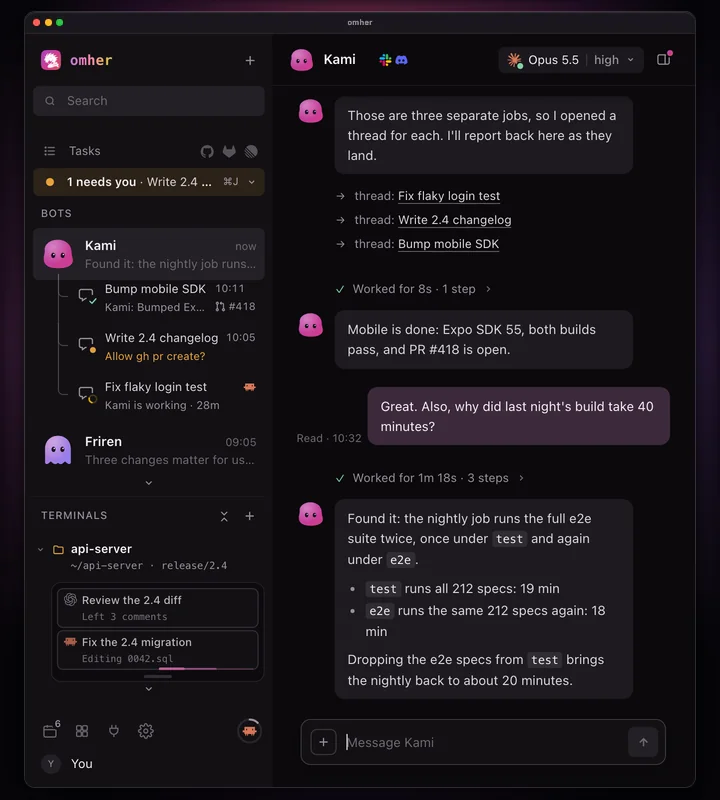
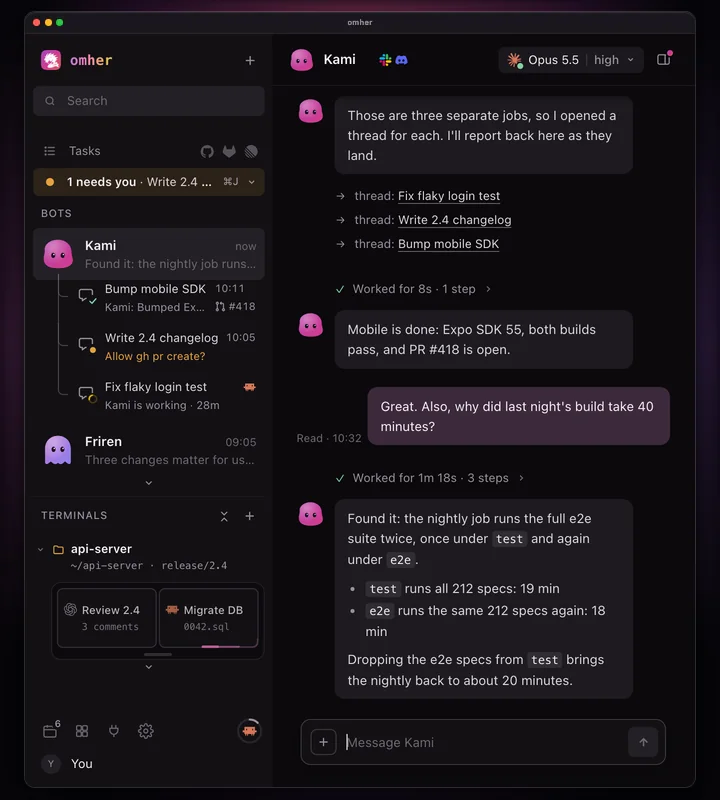
docs(site): omher.app poster and phone crop with the split side by side
The site poster (omher-app.webp, 2400x1239) and its phone crop
(omher-app-mobile.webp, 720x800) still showed the api-server split card
stacked top/bottom ("Review the 2.4 diff" over "Fix the 2.4 migration").
khope wants the split side by side everywhere, as the README hero already
has it. Both stills are retaken from the poster's own scene (the #3197
spec) with the README hero's split ported in: the split is dragged to the
right, and the panes are titled Codex "Review 2.4" / "3 comments" and Claude
Code "Migrate DB" / "0042.sql" (the live feed prints "0042.sql"), with no
ellipsis in either cell.

Both are drawn with omher's GPU terminal renderer forced on through
openApp (term.gpu "on"; rendererInUse() reads "gpu"), as the terminals poster
in #3201 is, so no capture falls back to the DOM renderer's seamed block
glyphs. Neither still shows an open terminal, and a 10x zoom of the Claude
Code marks in the sidebar shows them solid.

Everything else is unchanged: same capture (1454x854 CSS at DPR 1.24966 for
the poster, 670x753 at 2x for the phone, turn answered), same composite
into each file's own backdrop, border and title bar, same canvas and
window box, so site/index.html's --win-* crops still fit. A Pillow diff
against main changes only the TERMINALS band (sidebar rows ~800-1060 on
the poster, ~560-700 on the phone); every other band is within webp noise.

The side-by-side card is 62 CSS px at the default grip, against 52 for the
[…]

Changed region(s): [[0.0917, 0.7188, 0.3667, 0.8438]]

diff --git a/site/index.html b/site/index.html
@@ -752,7 +752,7 @@ body.rail-off .rail{opacity:0;pointer-events:none;visibility:hidden}
   </div>
   <!-- the window slot: the promo still today; a video element with a poster drops in here (set --win-l/t/w/h to 0 0 1 1 and --win-ar to the clip's ratio) -->
   <div class="omher__stage" data-omher-stage>
-  <figure class="omher__shot" data-app-shot><div class="omher__win" data-app-win data-app-slot><video data-app-film autoplay muted loop playsinline preload="metadata" poster="assets/omher-app.webp" width="2400" height="1240" aria-label="omher: you ask Kami for three release-day jobs and it opens a thread for each on its own; the threads run, one finishes, one waits for your approval, a Shell in TERMINALS turns into Claude Code while claude runs and back, and Kami answers a follow-up with its steps timed."><source src="assets/omher-app.webm" type="video/webm"><source src="assets/omher-app.mp4" type="video/mp4"></video><picture><source media="(max-width: 600px)" srcset="assets/omher-app-mobile.webp" width="720" height="800"><img src="assets/omher-app.webp" alt="omher: Kami split a release-day ask into three threads under its name, one running with Claude Code at work, one waiting for you, one done; TERMINALS below show named folders with their path and branch: a Codex and Claude Code split in api-server and an OMH session running a /dag-ulw plan in oh-my-hermes, each with its CLI's logo, and Tasks sits on top." width="2400" height="1239" fetchpriority="high" decoding="async"></picture><span class="omher__sheen" aria-hidden="true"></span><span class="omher__glow" aria-hidden="true"></span></div></figure>
+  <figure class="omher__shot" data-app-shot><div class="omher__win" data-app-win data-app-slot><video data-app-film autoplay muted loop playsinline preload="metadata" poster="assets/omher-app.webp" width="2400" height="1240" aria-label="omher: you ask Kami for three release-day jobs and it opens a thread for each on its own; the threads run, one finishes, one waits for your approval, a Shell in TERMINALS turns into Claude Code while claude runs and back, and Kami answers a follow-up with its steps timed."><source src="assets/omher-app.webm" type="video/webm"><source src="assets/omher-app.mp4" type="video/mp4"></video><picture><source media="(max-width: 600px)" srcset="assets/omher-app-mobile.webp" width="720" height="800"><img src="assets/omher-app.webp" alt="omher: Kami split a release-day ask into three threads under its name, one running with Claude Code at work, one waiting for you, one done; TERMINALS below show named folders with their path and branch: a side-by-side Codex and Claude Code split in api-server and an OMH session running a /dag-ulw plan in oh-my-hermes, each with its CLI's logo, and Tasks sits on top." width="2400" height="1239" fetchpriority="high" decoding="async"></picture><span class="omher__sheen" aria-hidden="true"></span><span class="omher__glow" aria-hidden="true"></span></div></figure>
   <div class="omher__act">
   <div class="omher__get" data-dl>
     <a class="osbtn osbtn--main" href="#omher" data-dl-k="mac-arm" data-mac-install><svg viewBox="0 0 24 24" aria-hidden="true"><path d="M16.37 12.6c.02 2.4 2.1 3.2 2.13 3.21-.02.06-.33 1.14-1.1 2.26-.66.97-1.35 1.93-2.43 1.95-1.06.02-1.4-.63-2.62-.63s-1.6.61-2.6.65c-1.04.04-1.84-1.05-2.5-2.01-1.36-1.97-2.4-5.57-1-8 .69-1.21 1.93-1.97 3.28-1.99 1.02-.02 1.99.69 2.62.69.62 0 1.8-.85 3.04-.73.52.02 1.98.21 2.92 1.58-.08.05-1.74 1.02-1.74 3.02M14.37 4.68c.56-.68.93-1.62.83-2.56-.8.03-1.77.53-2.35 1.21-.51.6-.97 1.56-.85 2.48.9.07 1.81-.46 2.37-1.13"/></svg>macOS (Apple silicon)</a>
